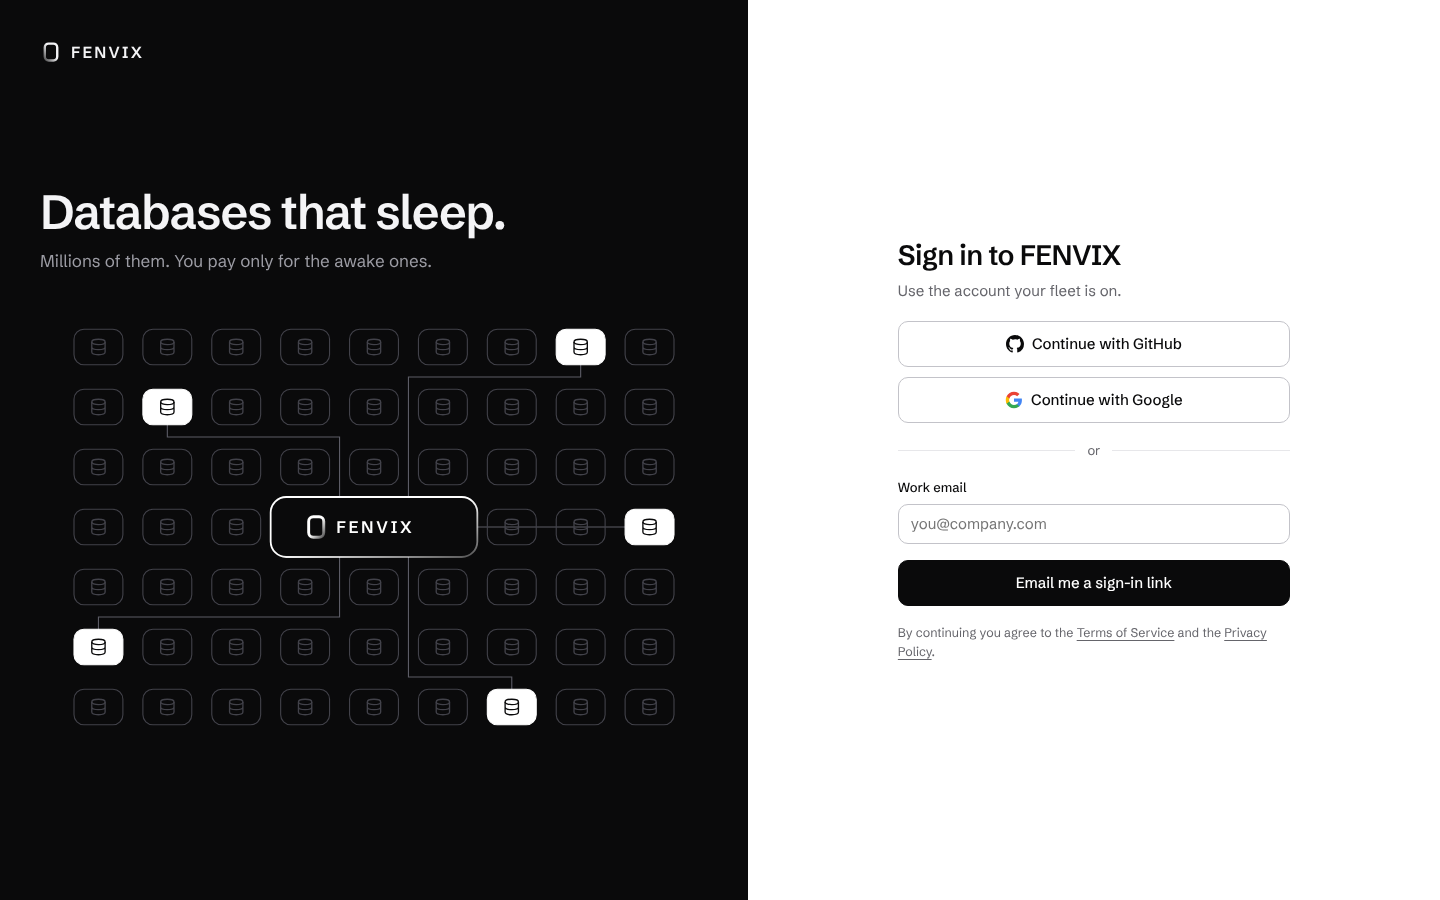
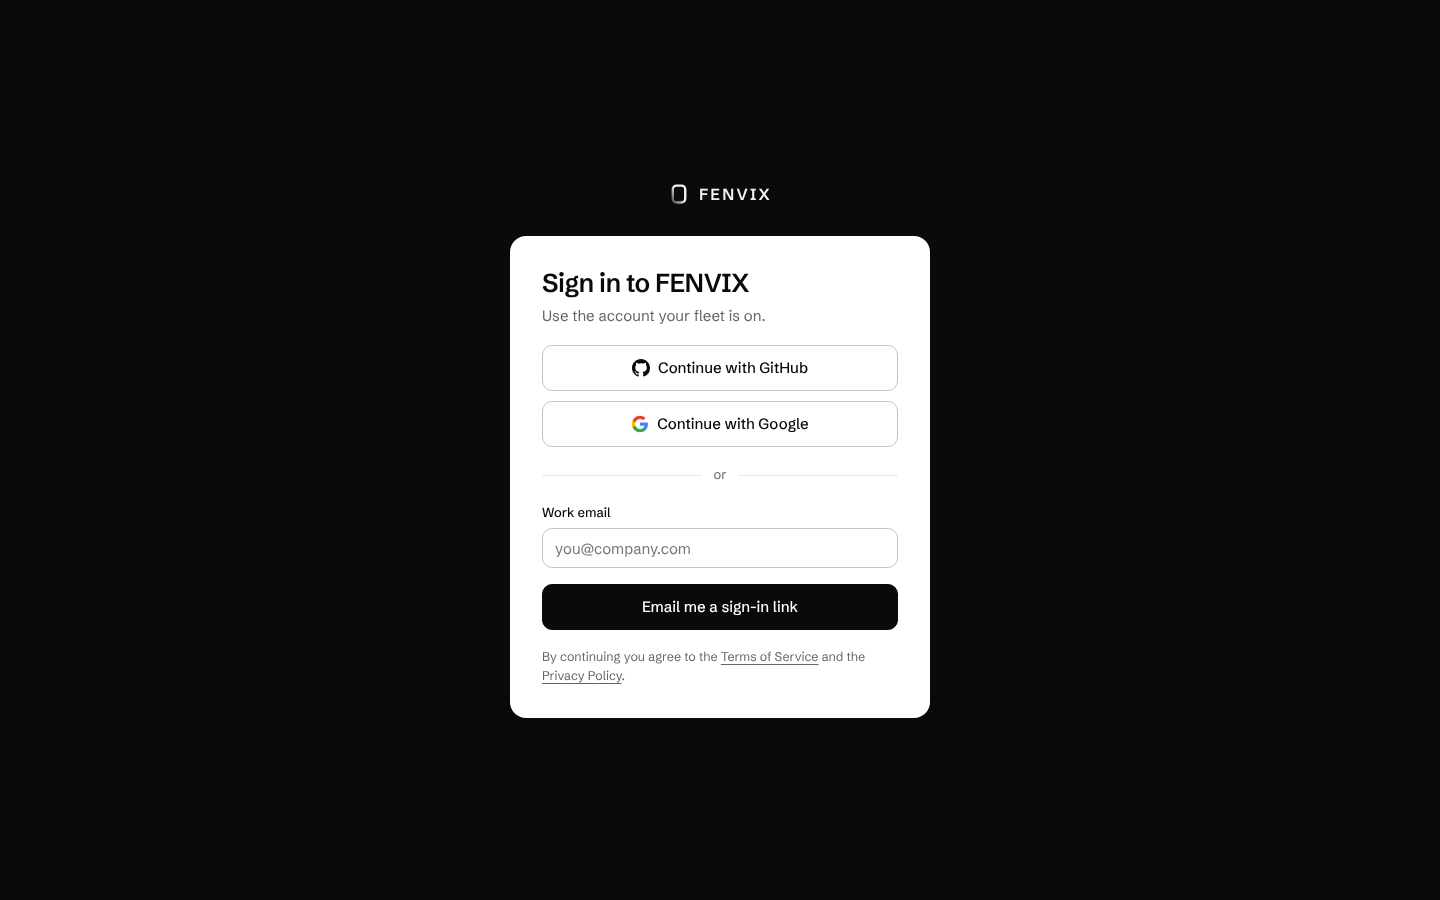
Sign in: one white card on a dark page, no side panel
Claude-Session: https://claude.ai/code/session_01YAF6DjZVNFqtSbCSeKVAmW

diff --git a/src/pages/SignIn.tsx b/src/pages/SignIn.tsx
@@ -1,7 +1,6 @@
 import { useEffect, useState, type FormEvent } from "react";
 import { useSearchParams } from "react-router-dom";
 import { Logo } from "../components/Logo";
-import { FleetVisual } from "../components/FleetVisual";
 import { GitHubMark, GoogleMark } from "../components/marks";
 import { session, type AuthProvider } from "../session";
 import { useSession } from "../session/SessionProvider";
@@ -58,76 +57,63 @@ export function SignInPage() {
   }
 
   return (
-    <div className="signin-split">
-      <section className="signin-brand">
-        <div className="signin-brand-top">
-          <Logo />
+    <main id="main" className="signin-page" tabIndex={-1}>
+      <div className="signin-mark">
+        <Logo />
+      </div>
+
+      <div className="signin-card">
+        <h1>Sign in to FENVIX</h1>
+        <p className="muted signin-lead">Use the account your fleet is on.</p>
+
+        <div className="signin-providers">
+          <button type="button" className="btn btn-block btn-lg" onClick={() => provider("github")} disabled={busy}>
+            <GitHubMark />
+            Continue with GitHub
+          </button>
+          <button type="button" className="btn btn-block btn-lg" onClick={() => provider("google")} disabled={busy}>
+            <GoogleMark />
+            Continue with Google
+          </button>
         </div>
-        <div className="signin-brand-body">
-          <div className="signin-pitch">
-            <h2>Databases that sleep.</h2>
-            <p>Millions of them. You pay only for the awake ones.</p>
-          </div>
-          <div className="signin-art">
-            <FleetVisual />
-          </div>
+
+        <div className="divider" role="separator">
+          <span>or</span>
         </div>
-      </section>
 
-      <main id="main" className="signin-form-side" tabIndex={-1}>
-        <div className="signin-card">
-          <h1>Sign in to FENVIX</h1>
-          <p className="muted signin-lead">Use the account your fleet is on.</p>
-
-          <div className="signin-providers">
-            <button type="button" className="btn btn-block btn-lg" onClick={() => provider("github")} disabled={busy}>
-              <GitHubMark />
-              Continue with GitHub
-            </button>
-            <button type="button" className="btn btn-block btn-lg" onClick={() => provider("google")} disabled={busy}>
-              <GoogleMark />
-              Continue with Google
-            </button>
-          </div>
-
-          <div className="divider" role="separator">
-            <span>or</span>
-          </div>
-
-          {sentTo ? (
-            <div className="callout" role="status">
-              <p>
-                <strong>Check your inbox.</strong> We sent a sign-in link to {sentTo}. It opens this dashboard and works once.
-              </p>
-              <div className="row-actions">
-                <button type="button" className="btn" onClick={() => (setSentTo(null), setEmail(""))}>
-                  Use another address
-                </button>
-              </div>
-            </div>
-          ) : (
-            <form onSubmit={sendLink} className="stack wide" noValidate>
-              <div className="field">
-                <label htmlFor="signin-email">Work email</label>
-                <input id="signin-email" type="email" autoComplete="email" value={email} onChange={(e) => (setEmail(e.target.value), setError(null))} placeholder="you@company.com" aria-invalid={error ? true : undefined} aria-describedby={error ? "signin-error" : undefined} />
-              </div>
-              <button type="submit" className="btn btn-primary btn-block btn-lg" disabled={busy}>
-                Email me a sign-in link
-              </button>
-            </form>
-          )}
-
-          {error && (
-            <p id="signin-error" className="error" role="alert">
-              {error}
+        {sentTo ? (
+          <div className="callout" role="status">
+            <p>
+              <strong>Check your inbox.</strong> We sent a sign-in link to {sentTo}. It opens this dashboard and works once.
             </p>
-          )}
+            <div className="row-actions">
+              <button type="button" className="btn" onClick={() => (setSentTo(null), setEmail(""))}>
+                Use another address
+              </button>
+            </div>
+          </div>
+        ) : (
+          <form onSubmit={sendLink} className="stack wide" noValidate>
+            <div className="field">
+              <label htmlFor="signin-email">Work email</label>
+              <input id="signin-email" type="email" autoComplete="email" value={email} onChange={(e) => (setEmail(e.target.value), setError(null))} placeholder="you@company.com" aria-invalid={error ? true : undefined} aria-describedby={error ? "signin-error" : undefined} />
+            </div>
+            <button type="submit" className="btn btn-primary btn-block btn-lg" disabled={busy}>
+              Email me a sign-in link
+            </button>
+          </form>
+        )}
 
-          <p className="signin-terms muted small">
-            By continuing you agree to the <a href="https://fenvix.com/terms">Terms of Service</a> and the <a href="https://fenvix.com/privacy">Privacy Policy</a>.
+        {error && (
+          <p id="signin-error" className="error" role="alert">
+            {error}
           </p>
-        </div>
-      </main>
-    </div>
+        )}
+
+        <p className="signin-terms muted small">
+          By continuing you agree to the <a href="https://fenvix.com/terms">Terms of Service</a> and the <a href="https://fenvix.com/privacy">Privacy Policy</a>.
+        </p>
+      </div>
+    </main>
   );
 }

diff --git a/src/styles.css b/src/styles.css
@@ -293,12 +293,8 @@ table.data tr[data-selected] { background: var(--surface-2); }
 .seg button { white-space: nowrap; }
 @media (max-width: 520px) { .toolbar .field:has(.seg), .toolbar .field:has(#u-month) { flex: 1 1 100%; } .seg { display: flex; } .seg button { flex: 1; } }
 
-/* Sign in and user menu */
-.signin-card { width: min(392px, 100%); display: flex; flex-direction: column; gap: 18px; }
+/* Account menu */
 .btn-block { width: 100%; }
-.divider { display: flex; align-items: center; gap: 12px; color: var(--muted); font-size: 13px; }
-.divider::before, .divider::after { content: ""; flex: 1; height: 1px; background: var(--border); }
-.boot { padding: 24px; }
 .user-menu { position: relative; }
 .user-btn { display: flex; align-items: center; gap: 10px; width: 100%; padding: 6px 8px; background: transparent; border: 1px solid transparent; border-radius: 10px; cursor: pointer; text-align: left; }
 .user-btn:hover, .user-btn[aria-expanded="true"] { background: var(--nav-hover); }
@@ -318,36 +314,18 @@ table.data tr[data-selected] { background: var(--surface-2); }
 a.btn { text-decoration: none; }
 
 /* ---------------------------------------------------------------- sign in */
-.signin-split { min-height: 100dvh; display: grid; grid-template-columns: 1fr; grid-template-rows: auto 1fr; background: var(--bg); }
-.signin-brand { background: var(--nav-bg); color: var(--nav-text); padding: 22px 24px 26px; display: flex; flex-direction: column; gap: 18px; }
-.signin-brand-top { display: flex; }
-.signin-pitch h2 { font-size: 28px; font-weight: 600; letter-spacing: -0.03em; line-height: 1.06; }
-.signin-pitch p { margin-top: 10px; color: var(--nav-muted); font-size: 15px; max-width: 46ch; }
-.signin-art { display: none; }
-.fleet { width: 100%; max-width: 620px; height: auto; color: #ffffff; }
-.fleet .chip-off { color: #42424a; }
-.fleet .chip-on { color: #ffffff; }
-.fleet-lines { color: #5c5c66; }
-.fleet-word { fill: #ffffff; font-family: var(--font); font-size: 15px; font-weight: 600; letter-spacing: 0.16em; }
-.signin-form-side { display: grid; place-items: center; padding: 40px 24px 56px; max-width: none; }
-.signin-card h1 { font-size: 28px; }
-.signin-lead { margin-top: -10px; }
+.signin-page { min-height: 100dvh; max-width: none; background: var(--nav-bg); display: flex; flex-direction: column; align-items: center; justify-content: center; gap: 24px; padding: 40px 20px; }
+.signin-mark { color: var(--nav-text); }
+.signin-card { width: min(420px, 100%); display: flex; flex-direction: column; gap: 18px; background: var(--bg); border-radius: 16px; padding: 32px; }
+.signin-card h1 { font-size: 26px; }
+.signin-lead { margin-top: -12px; }
 .signin-providers { display: flex; flex-direction: column; gap: 10px; }
 .signin-terms { line-height: 1.5; }
 .signin-terms a { text-underline-offset: 3px; }
 .btn-lg { height: 46px; font-size: 15px; }
-@media (max-width: 899px) {
-  .signin-pitch p { max-width: 32ch; }
-}
-@media (min-width: 900px) {
-  .signin-split { grid-template-columns: 1.08fr 1fr; grid-template-rows: 1fr; }
-  .signin-brand { padding: 40px; gap: 24px; }
-  .signin-pitch h2 { font-size: clamp(34px, 3.4vw, 48px); }
-  .signin-pitch p { font-size: 17px; }
-  .signin-art { display: grid; place-items: center; width: 100%; }
-  .signin-brand-body { flex: 1; display: flex; flex-direction: column; justify-content: center; gap: 44px; padding-bottom: 24px; }
-  .signin-form-side { padding: 40px; }
-}
+.divider { display: flex; align-items: center; gap: 12px; color: var(--muted); font-size: 13px; }
+.divider::before, .divider::after { content: ""; flex: 1; height: 1px; background: var(--border); }
+@media (max-width: 420px) { .signin-card { padding: 24px; } }
 
 /* ---------------------------------------------------------------- numbers and charts */
 .kpis { display: grid; grid-template-columns: repeat(2, minmax(0, 1fr)); gap: 12px; }
